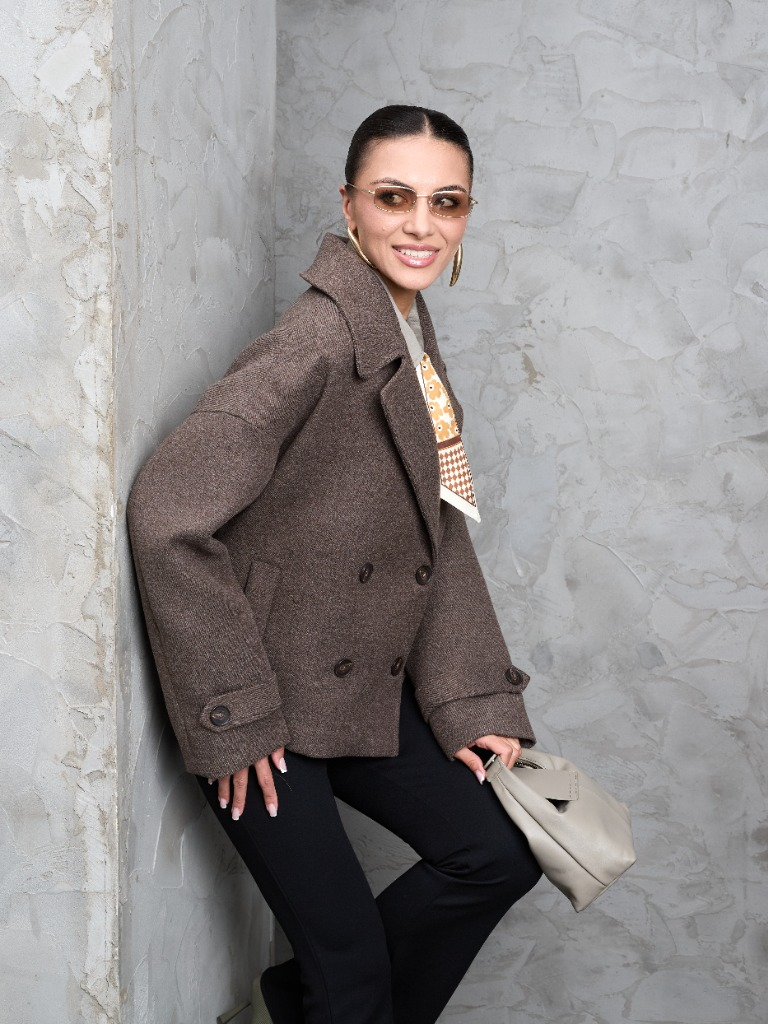
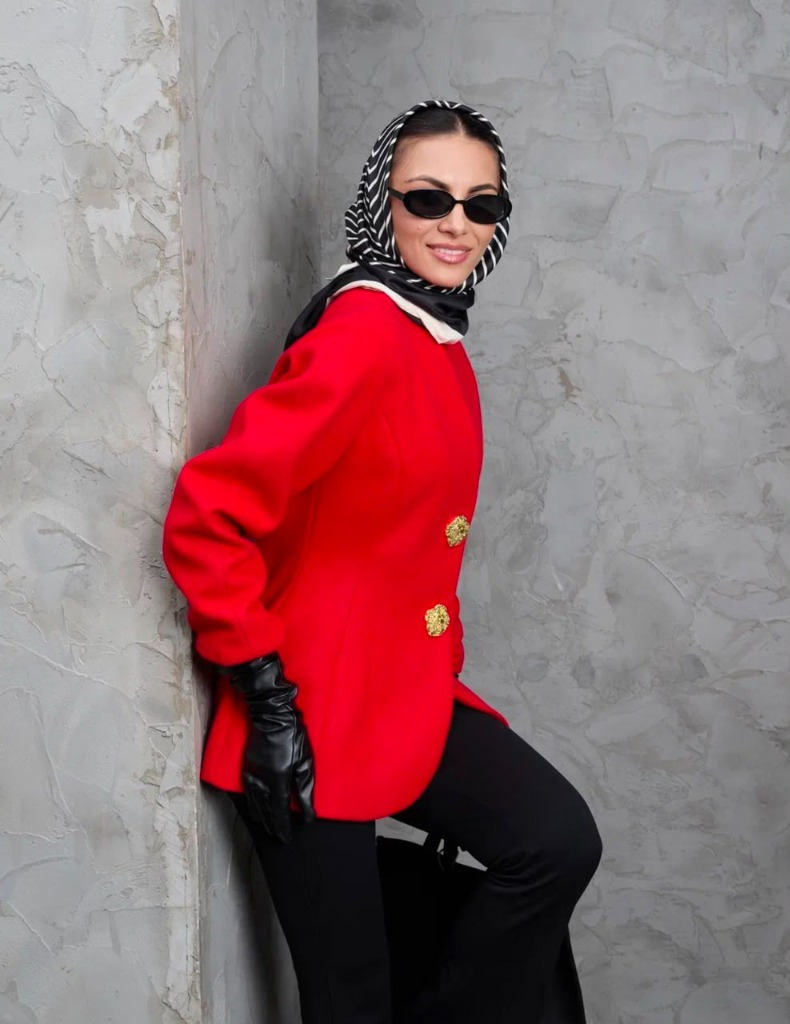
feat: replace model-3 with red jacket and shuffle model order

diff --git a/index.html b/index.html
@@ -583,27 +583,6 @@
         <div class="models-grid">
           <div class="model-item reveal">
             <div class="model-img-wrap">
-              <img src="assets/model-1.jpg" alt="Жакет с леопардовым принтом" loading="lazy">
-            </div>
-            <div class="model-name">Жакет с леопардовым принтом</div>
-          </div>
-          
-          <div class="model-item reveal reveal-delay-1">
-            <div class="model-img-wrap">
-              <img src="assets/model-2.jpg" alt="Жакет в ёлочку" loading="lazy">
-            </div>
-            <div class="model-name">Жакет в ёлочку</div>
-          </div>
-          
-          <div class="model-item reveal reveal-delay-2">
-            <div class="model-img-wrap">
-              <img src="assets/model-3.jpg" alt="Двубортное полупальто" loading="lazy">
-            </div>
-            <div class="model-name">Двубортное полупальто</div>
-          </div>
-          
-          <div class="model-item reveal">
-            <div class="model-img-wrap">
               <img src="assets/model-4.jpg" alt="Приталенное полупальто" loading="lazy">
             </div>
             <div class="model-name">Приталенное полупальто</div>
@@ -611,9 +590,30 @@
           
           <div class="model-item reveal reveal-delay-1">
             <div class="model-img-wrap">
+              <img src="assets/model-1.jpg" alt="Жакет с леопардовым принтом" loading="lazy">
+            </div>
+            <div class="model-name">Жакет с леопардовым принтом</div>
+          </div>
+          
+          <div class="model-item reveal reveal-delay-2">
+            <div class="model-img-wrap">
+              <img src="assets/model-3.jpg" alt="Приталенный красный жакет" loading="lazy">
+            </div>
+            <div class="model-name">Приталенный красный жакет</div>
+          </div>
+          
+          <div class="model-item reveal">
+            <div class="model-img-wrap">
               <img src="assets/model-5.jpg" alt="Двубортное полупальто (детали)" loading="lazy">
             </div>
             <div class="model-name">Двубортное полупальто (детали)</div>
+          </div>
+          
+          <div class="model-item reveal reveal-delay-1">
+            <div class="model-img-wrap">
+              <img src="assets/model-2.jpg" alt="Жакет в ёлочку" loading="lazy">
+            </div>
+            <div class="model-name">Жакет в ёлочку</div>
           </div>
         </div>
       </div>